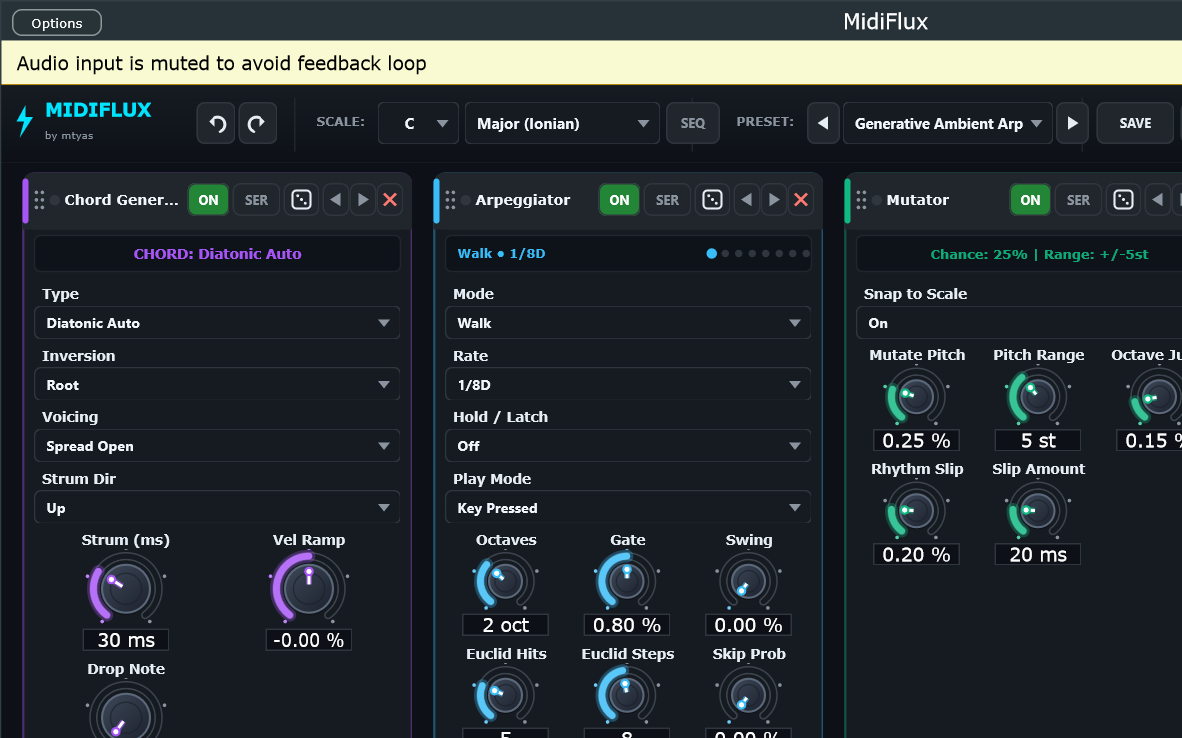
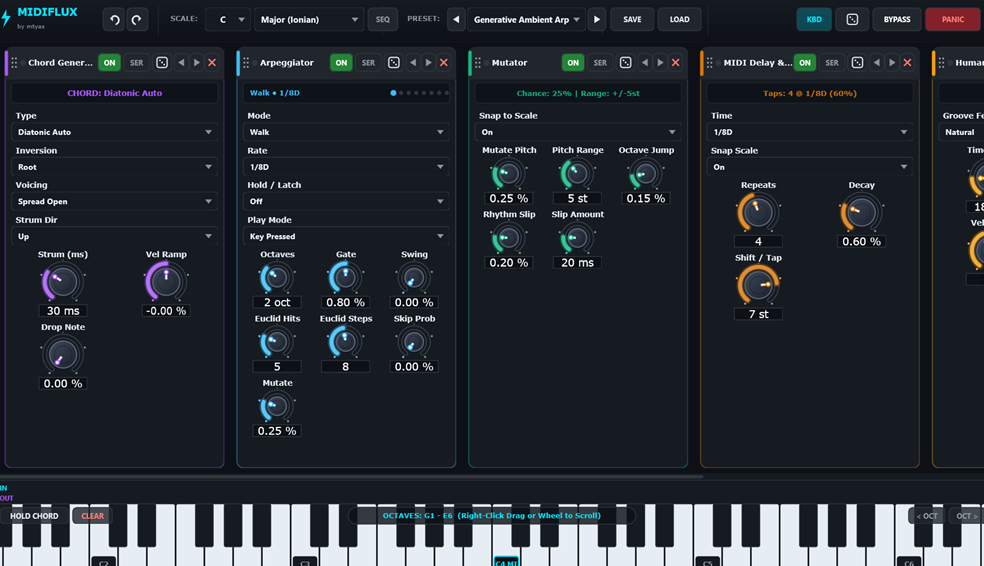
docs: replace MidiFlux screenshot with full-size high-DPI capture scaled for README

diff --git a/README.md b/README.md
@@ -18,7 +18,7 @@ Featuring **16 specialized processing blocks**, independent **Series / Parallel 
 
 ## 📸 Architecture & Interface
 
-![MidiFlux Interface](docs/images/midiflux_screenshot.png)
+<img src="docs/images/midiflux_screenshot.png" alt="MidiFlux Interface" width="100%">
 
 ```
 +----------------------------------------------------------------------------------------------------+
